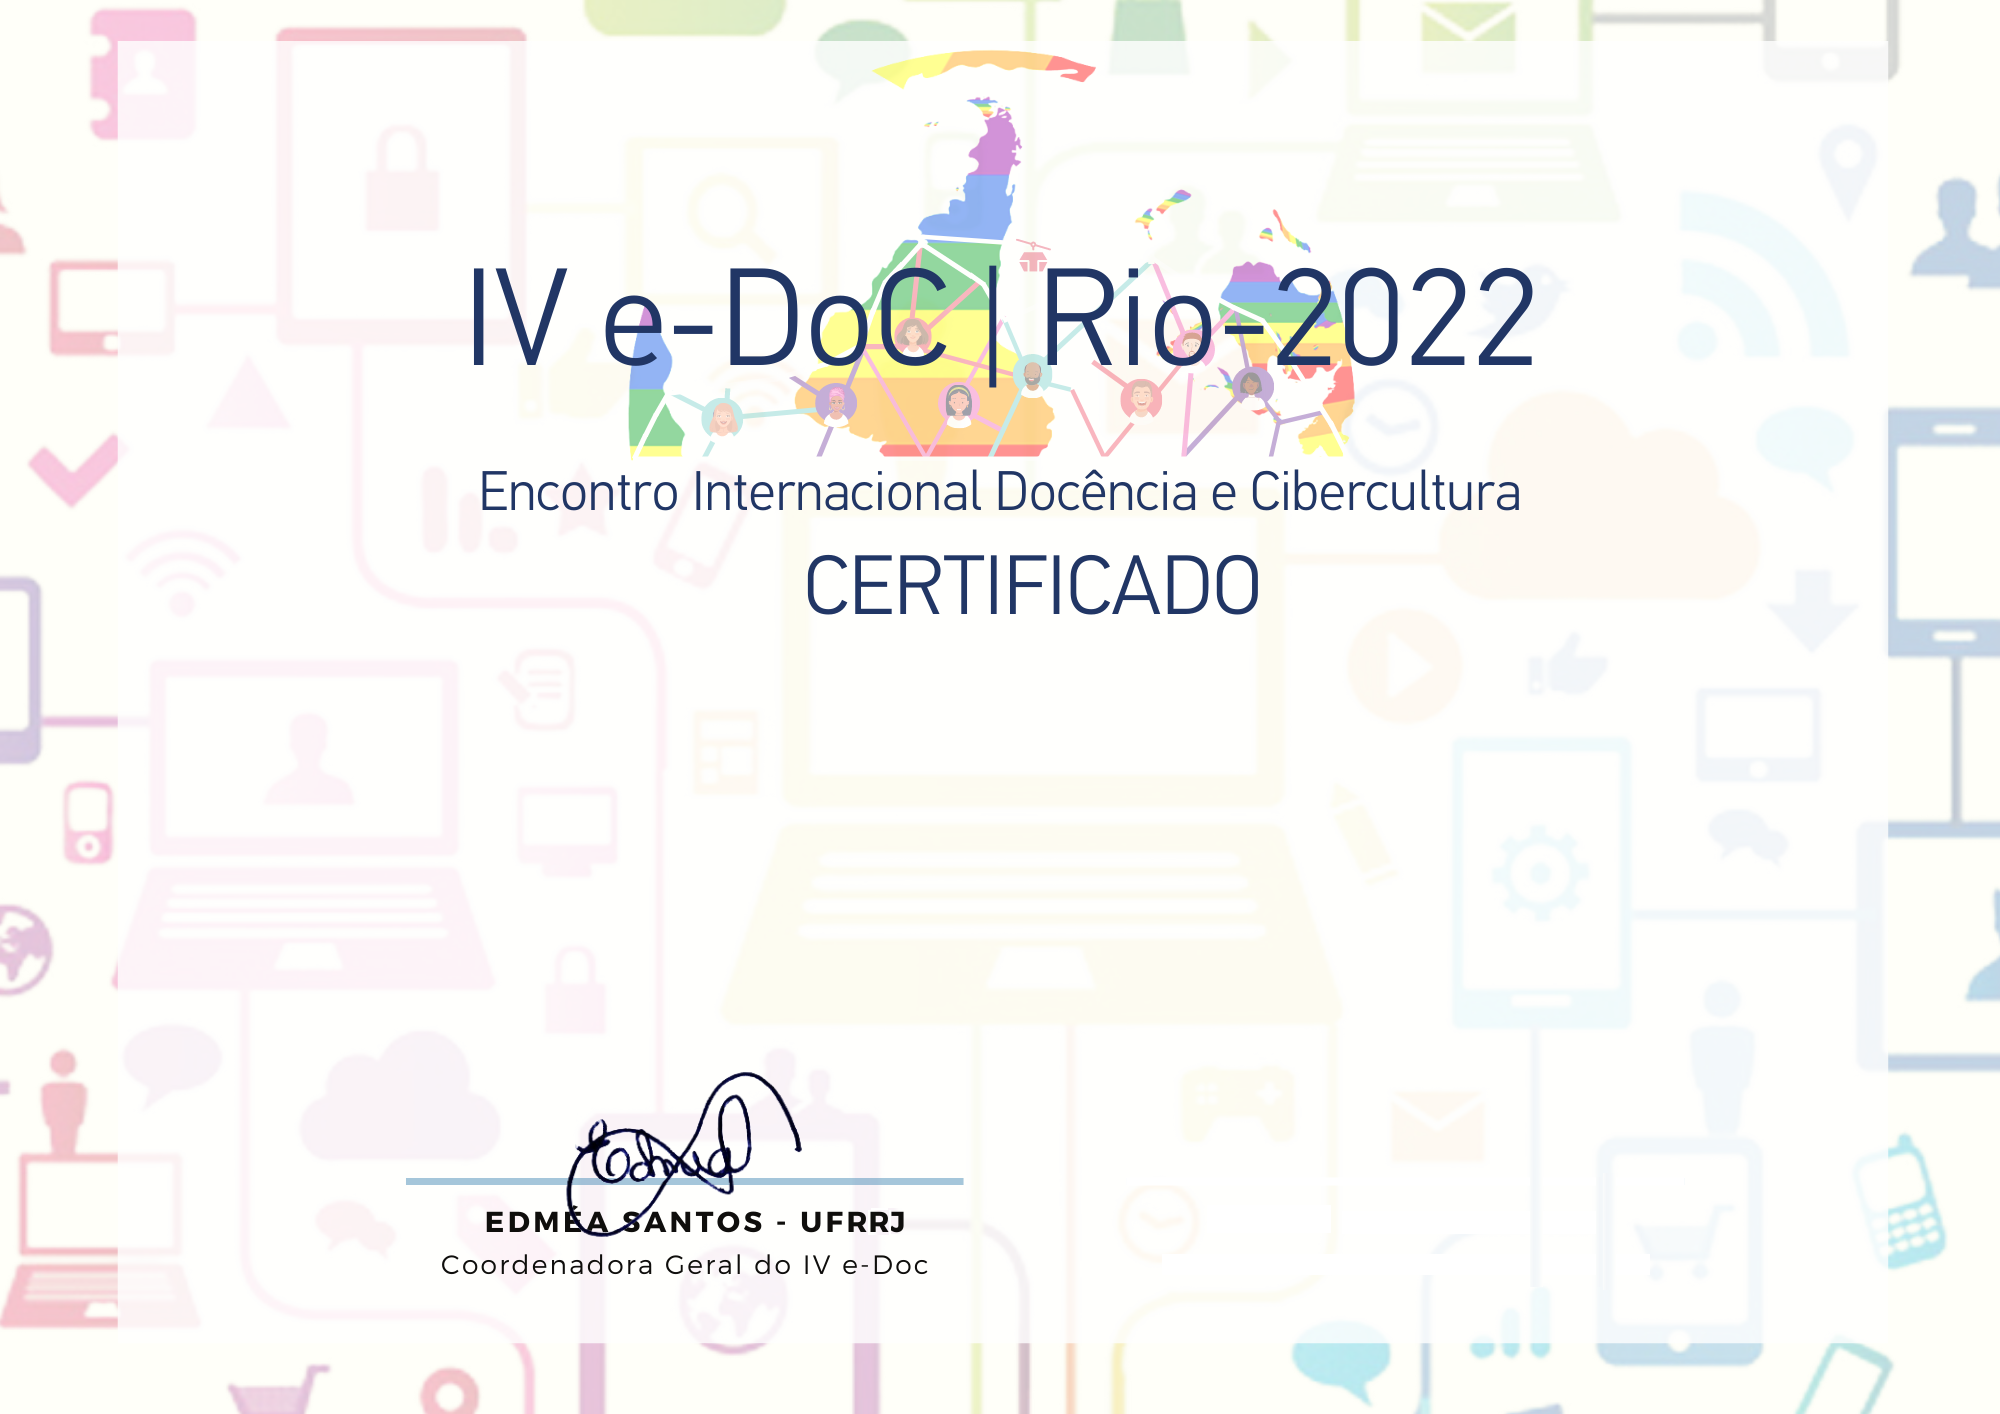
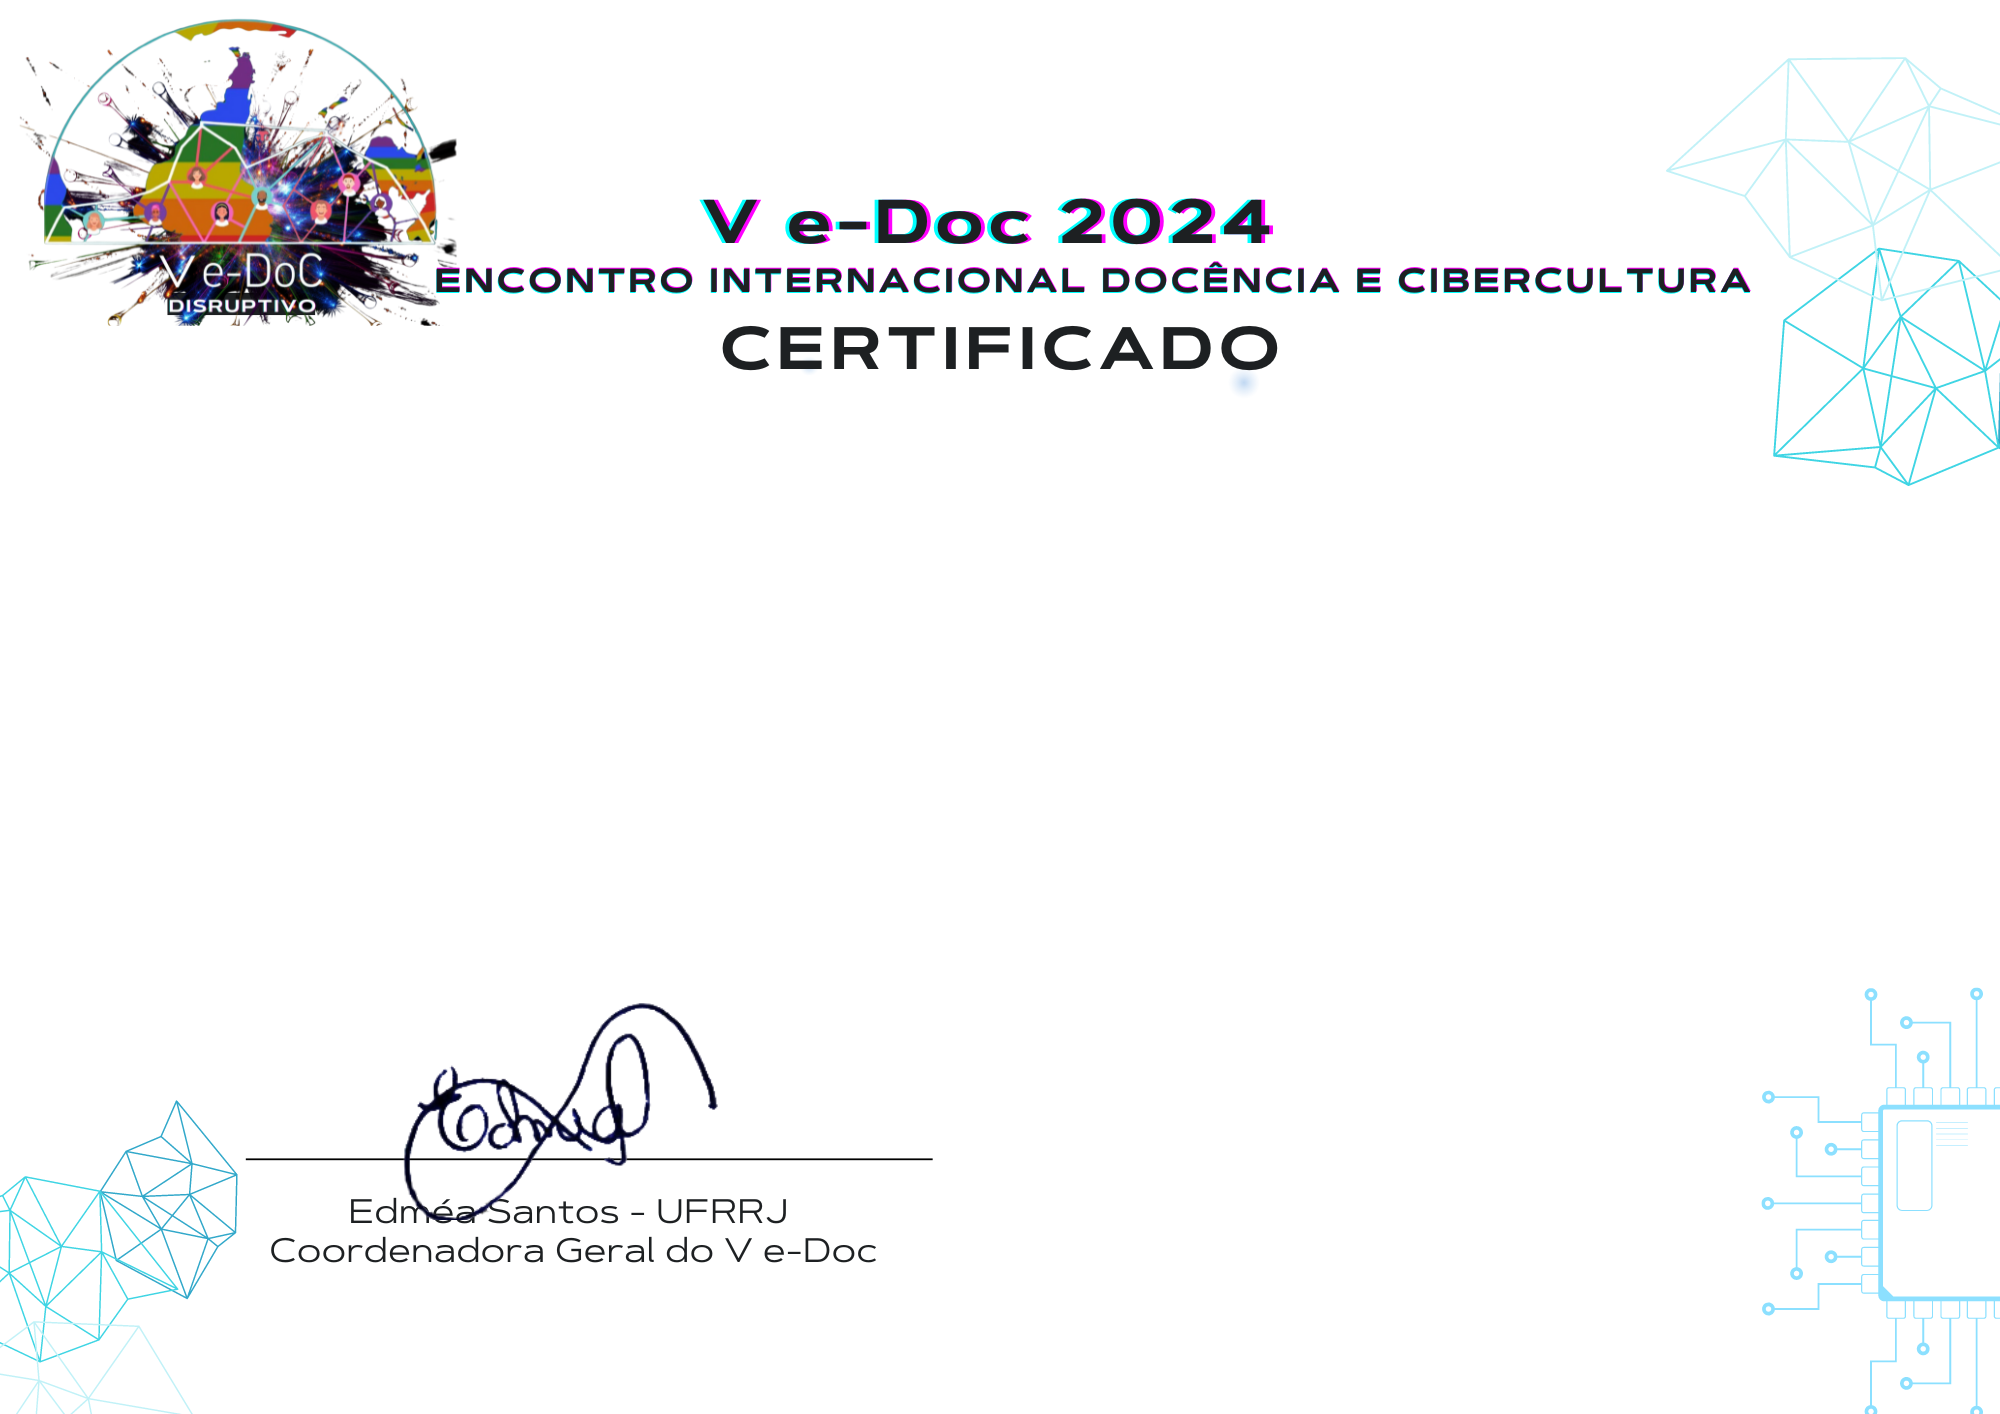
certificado

diff --git a/src/app/certificado/certificado.component.ts b/src/app/certificado/certificado.component.ts
@@ -216,76 +216,76 @@ export class CertificadoComponent implements OnInit {
     {
       name: "MODERAÇÃO DE EXPOSIÇÃO E FRUIÇÕES ARTÍSTICO-LITERÁRIAS",
       value:
-        "do IV Encontro Internacional Docência e Cibercultura – IV E-DOC – RIO 2022 – uma promoção interinstitucional coordenada pela Universidade Federal Rural do Rio de Janeiro e pela Universidade do Estado do Rio de Janeiro, no período de 25 de julho a 29 de julho de 2022.",
+        "do V Encontro Internacional Docência e Cibercultura – V E-DOC – RIO 2024 – uma promoção interinstitucional coordenada pela Universidade Federal Rural do Rio de Janeiro e pela Universidade do Estado do Rio de Janeiro, no período de 25 de julho a 29 de julho de 2022.",
     },
     {
       name: "PARTICIPAÇÃO DE EXPOSIÇÃO E FRUIÇÕES ARTÍSTICO-LITERÁRIAS",
       value:
-        "do IV Encontro Internacional Docência e Cibercultura – IV E-DOC – RIO 2022 – uma promoção interinstitucional coordenada pela Universidade Federal Rural do Rio de Janeiro e pela Universidade do Estado do Rio de Janeiro, no período de 25 de julho a 29 de julho de 2022.",
+        "do V Encontro Internacional Docência e Cibercultura – V E-DOC – RIO 2024 – uma promoção interinstitucional coordenada pela Universidade Federal Rural do Rio de Janeiro e pela Universidade do Estado do Rio de Janeiro, no período de 25 de julho a 29 de julho de 2022.",
     },
 
     {
       name: "COORDENAÇÃO GERAL",
       value:
-        "coordenou o IV Encontro Internacional Docência e Cibercultura – IV E-DOC – RIO 2022 – uma promoção interinstitucional coordenada pela Universidade Federal Rural do Rio de Janeiro e pela Universidade do Estado do Rio de Janeiro, no período de 25 de julho a 29 de julho de 2022.",
+        "coordenou o V Encontro Internacional Docência e Cibercultura – V E-DOC – RIO 2024 – uma promoção interinstitucional coordenada pela Universidade Federal Rural do Rio de Janeiro e pela Universidade do Estado do Rio de Janeiro, no período de 25 de julho a 29 de julho de 2022.",
     },
 
     {
       name: "MEDIAÇÃO DE OFICINA",
       value:
-        "no IV Encontro Internacional Docência e Cibercultura – IV E-DOC – RIO 2022 – uma promoção interinstitucional coordenada pela Universidade Federal Rural do Rio de Janeiro e pela Universidade do Estado do Rio de Janeiro, no período de 25 de julho a 29 de julho de 2022.",
+        "no V Encontro Internacional Docência e Cibercultura – V E-DOC – RIO 2024 – uma promoção interinstitucional coordenada pela Universidade Federal Rural do Rio de Janeiro e pela Universidade do Estado do Rio de Janeiro, no período de 25 de julho a 29 de julho de 2022.",
     },
     {
       name: "MEDIAÇÃO DE PAINEL",
       value:
-        "no IV Encontro Internacional Docência e Cibercultura – IV E-DOC – RIO 2022 – uma promoção interinstitucional coordenada pela Universidade Federal Rural do Rio de Janeiro e pela Universidade do Estado do Rio de Janeiro, no período de 25 de julho a 29 de julho de 2022.",
+        "no V Encontro Internacional Docência e Cibercultura – V E-DOC – RIO 2024 – uma promoção interinstitucional coordenada pela Universidade Federal Rural do Rio de Janeiro e pela Universidade do Estado do Rio de Janeiro, no período de 25 de julho a 29 de julho de 2022.",
     },
 
     {
       name: "MONITORIA",
       value:
-        "no IV Encontro Internacional Docência e Cibercultura – IV E-DOC – RIO 2022 – uma promoção interinstitucional coordenada pela Universidade Federal Rural do Rio de Janeiro e pela Universidade do Estado do Rio de Janeiro, no período de 25 de julho a 29 de julho de 2022.",
+        "no V Encontro Internacional Docência e Cibercultura – V E-DOC – RIO 2024 – uma promoção interinstitucional coordenada pela Universidade Federal Rural do Rio de Janeiro e pela Universidade do Estado do Rio de Janeiro, no período de 25 de julho a 29 de julho de 2022.",
     },
 
 
     {
       name: "COORDENADOR DE EIXO",
       value:
-        "participou na condição de Coordenador(a) de Eixo do IV Encontro Internacional Docência e Cibercultura – IV E-DOC – RIO 2022 – uma promoção interinstitucional coordenada pela Universidade Federal Rural do Rio de Janeiro e pela Universidade do Estado do Rio de Janeiro, no período de 25 de julho a 29 de julho de 2022.",
+        "participou na condição de Coordenador(a) de Eixo do V Encontro Internacional Docência e Cibercultura – V E-DOC – RIO 2024 – uma promoção interinstitucional coordenada pela Universidade Federal Rural do Rio de Janeiro e pela Universidade do Estado do Rio de Janeiro, no período de 25 de julho a 29 de julho de 2022.",
     },
 
     {
       name: "PARTICIPAÇÃO DE OFICINA",
       value:
-        "no IV Encontro Internacional Docência e Cibercultura – IV E-DOC – RIO 2022 – uma promoção interinstitucional coordenada pela Universidade Federal Rural do Rio de Janeiro e pela Universidade do Estado do Rio de Janeiro, no período de 25 de julho a 29 de julho de 2022.",
+        "no V Encontro Internacional Docência e Cibercultura – V E-DOC – RIO 2024 – uma promoção interinstitucional coordenada pela Universidade Federal Rural do Rio de Janeiro e pela Universidade do Estado do Rio de Janeiro, no período de 25 de julho a 29 de julho de 2022.",
     },
     {
       name: "PARTICIPAÇÃO DE PAINEL",
       value:
-        "no IV Encontro Internacional Docência e Cibercultura – IV E-DOC – RIO 2022 – uma promoção interinstitucional coordenada pela Universidade Federal Rural do Rio de Janeiro e pela Universidade do Estado do Rio de Janeiro, no período de 25 de julho a 29 de julho de 2022.",
+        "no V Encontro Internacional Docência e Cibercultura – V E-DOC – RIO 2024 – uma promoção interinstitucional coordenada pela Universidade Federal Rural do Rio de Janeiro e pela Universidade do Estado do Rio de Janeiro, no período de 25 de julho a 29 de julho de 2022.",
     },
 
     {
       name: "PARTICIPAÇÃO GERAL",
       value:
-        "participou do IV Encontro Internacional Docência e Cibercultura – IV E-DOC – RIO 2022 – uma promoção interinstitucional coordenada pela Universidade Federal Rural do Rio de Janeiro e pela Universidade do Estado do Rio de Janeiro, no período de 25 de julho a 29 de julho de 2022.",
+        "participou do V Encontro Internacional Docência e Cibercultura – V E-DOC – RIO 2024 – uma promoção interinstitucional coordenada pela Universidade Federal Rural do Rio de Janeiro e pela Universidade do Estado do Rio de Janeiro, no período de 25 de julho a 29 de julho de 2022.",
     },
 
     {
       name: "PRESTAÇÃO DE SERVIÇO",
       value:
-        "para fins de realização do IV Encontro Internacional Docência e Cibercultura – IV E-DOC – RIO 2022 – uma promoção interinstitucional coordenada pela Universidade Federal Rural do Rio de Janeiro e pela Universidade do Estado do Rio de Janeiro, no período de 25 de julho a 29 de julho de 2022.",
+        "para fins de realização do V Encontro Internacional Docência e Cibercultura – V E-DOC – RIO 2024 – uma promoção interinstitucional coordenada pela Universidade Federal Rural do Rio de Janeiro e pela Universidade do Estado do Rio de Janeiro, no período de 25 de julho a 29 de julho de 2022.",
     },
 
     {
       name: "CONFERÊNCIA",
       value:
-        "no IV Encontro Internacional Docência e Cibercultura – IV E-DOC – RIO 2022 – uma promoção interinstitucional coordenada pela Universidade Federal Rural do Rio de Janeiro e pela Universidade do Estado do Rio de Janeiro, no período de 25 de julho a 29 de julho de 2022.",
+        "no V Encontro Internacional Docência e Cibercultura – V E-DOC – RIO 2024 – uma promoção interinstitucional coordenada pela Universidade Federal Rural do Rio de Janeiro e pela Universidade do Estado do Rio de Janeiro, no período de 25 de julho a 29 de julho de 2022.",
     },
     {
       name: "ORGANIZAÇÃO",
       value:
-        "do IV Encontro Internacional Docência e Cibercultura – IV E-DOC – RIO 2022 – uma promoção interinstitucional coordenada pela Universidade Federal Rural do Rio de Janeiro e pela Universidade do Estado do Rio de Janeiro, no período de 25 de julho a 29 de julho de 2022.",
+        "do V Encontro Internacional Docência e Cibercultura – V E-DOC – RIO 2024 – uma promoção interinstitucional coordenada pela Universidade Federal Rural do Rio de Janeiro e pela Universidade do Estado do Rio de Janeiro, no período de 25 de julho a 29 de julho de 2022.",
     },
   ];
 }

diff --git a/src/app/certificado/certificado.component.html b/src/app/certificado/certificado.component.html
@@ -10,36 +10,18 @@
           <div *ngIf="!carregando && user.icAdmin" class="form-row">
             <div class="form-group col-md-6">
               <div class="mt-2">
-                <select
-                  class="form-control"
-                  (change)="preencherTemplate($event, '_____', '_____')"
-                  placeholder="Eixo"
-                  id="opt"
-                >
+                <select class="form-control" (change)="preencherTemplate($event, '_____', '_____')" placeholder="Eixo"
+                  id="opt">
                   <option disabled="true" [selected]="true"> Selecione o modelo</option>
                   <option *ngFor="let template of templates">{{ template.name }} </option>
                 </select>
               </div>
 
-              <input
-                type="text"
-                *ngIf="certificados.length > 0"
-                name="Nome do participante"
-                class="form-control mt-2"
-                id="title"
-                placeholder="Nome do participante"
-                [(ngModel)]="certificados[0].nome"
-              />
+              <input type="text" *ngIf="certificados.length > 0" name="Nome do participante" class="form-control mt-2"
+                id="title" placeholder="Nome do participante" [(ngModel)]="certificados[0].nome" />
 
-              <input
-                type="text"
-                *ngIf="exibirGT && certificados.length > 0"
-                [(ngModel)]="certificados[0].coringa"
-                name="GT"
-                class="form-control mt-2"
-                id="title"
-                placeholder="Complemento"
-              />
+              <input type="text" *ngIf="exibirGT && certificados.length > 0" [(ngModel)]="certificados[0].coringa"
+                name="GT" class="form-control mt-2" id="title" placeholder="Complemento" />
             </div>
           </div>
 
@@ -47,8 +29,7 @@
             <div id="certificado{{ i }}" class="certified">
               <div *ngIf="!carregando" class="certified-details">
                 <h4>
-                  Certificamos que <strong>{{ certificado.nome }}</strong
-                  >{{ certificado.coringa }}
+                  Certificamos que <strong>{{ certificado.nome }}</strong>{{ certificado.coringa }}
                   {{ certificado.textoTemplate }}
                 </h4>
               </div>
